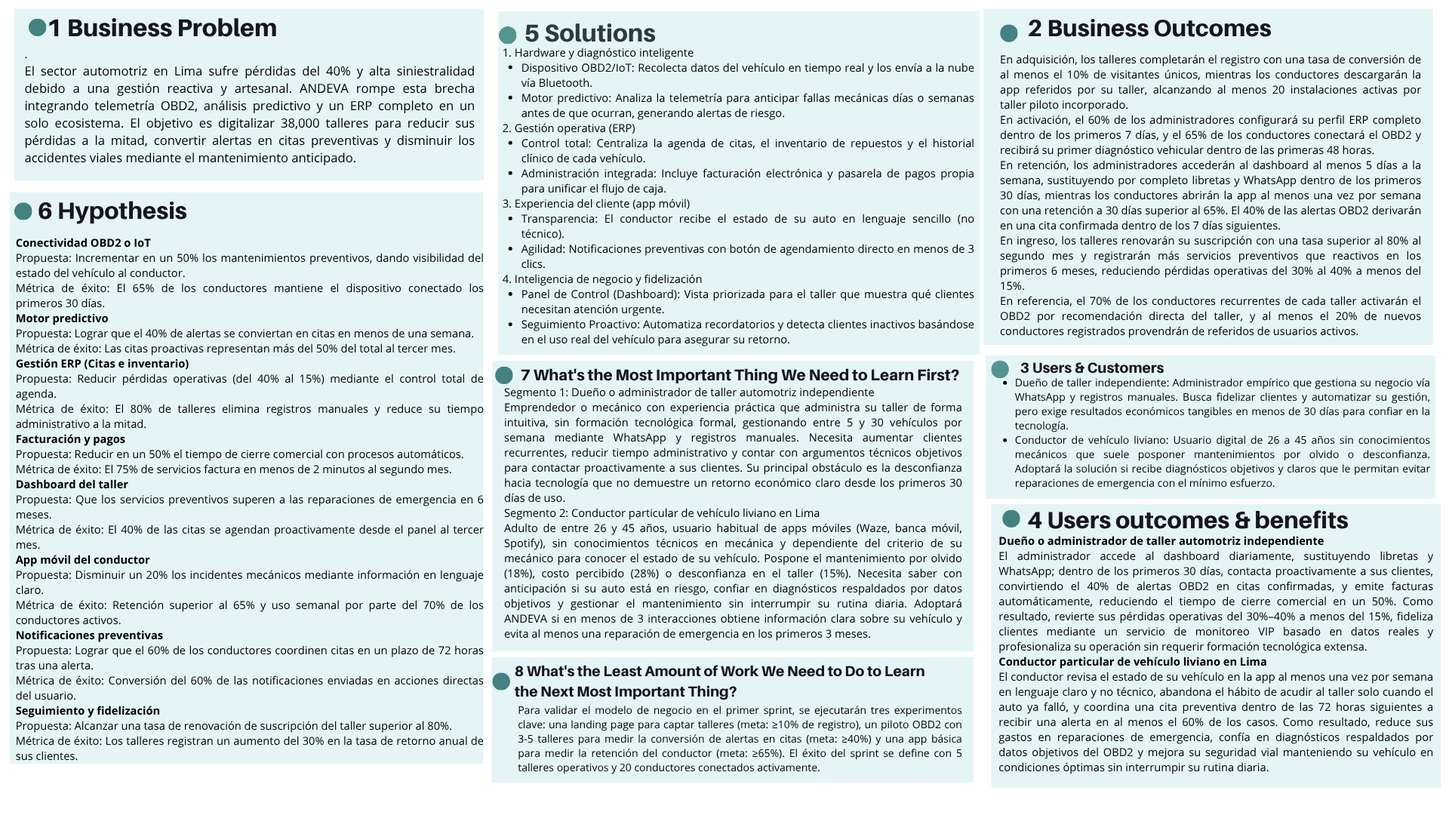
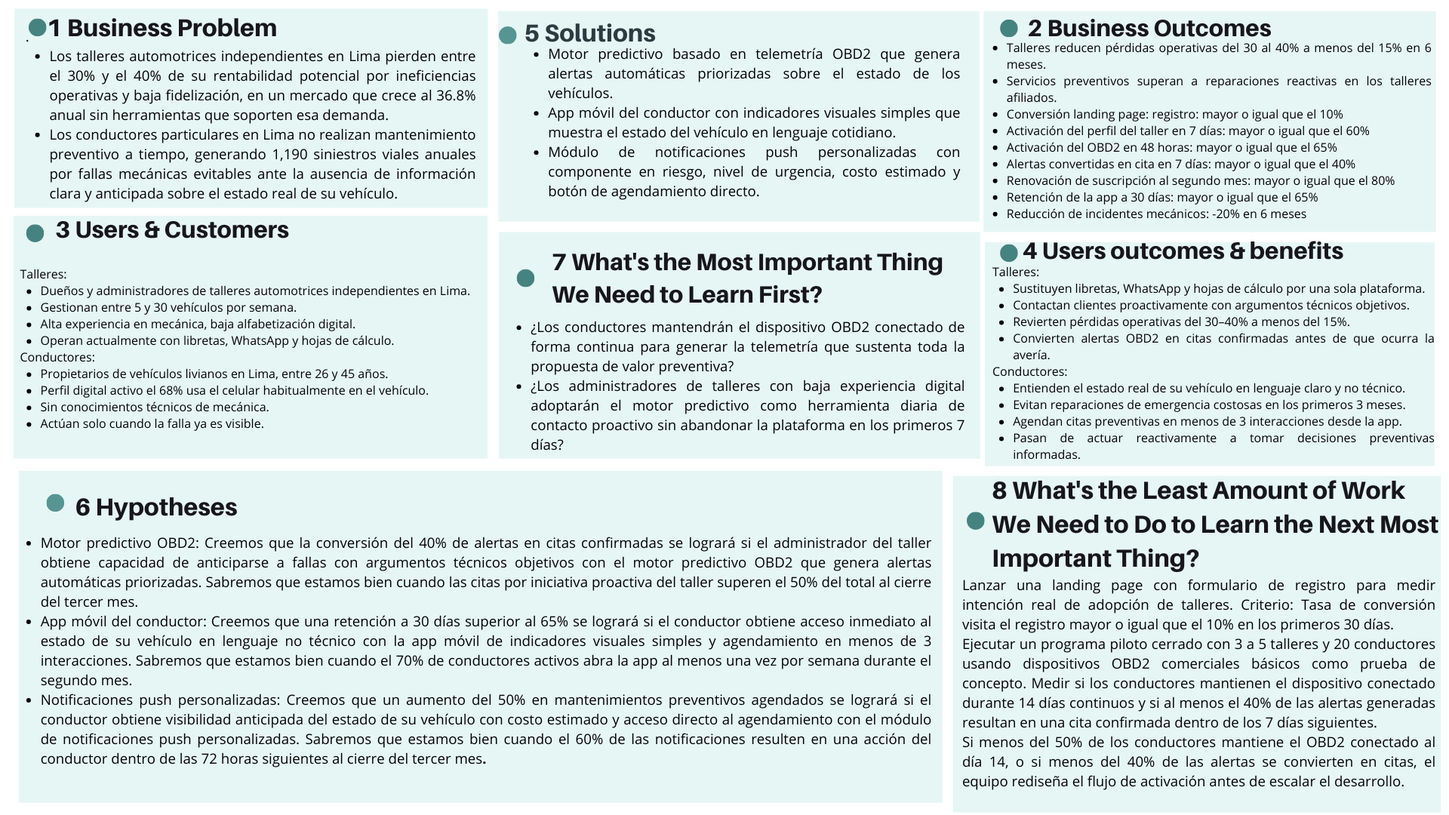
docs: reformat lean ux process.

diff --git a/report/16-solution-profile.md b/report/16-solution-profile.md
@@ -72,126 +72,91 @@
 
 #### 1.2.2.1.&emsp;&emsp;*Lean UX Problem Statements* {#cap-1-2-2-1}
 
-&emsp;&emsp;&emsp;&emsp;El estado actual del sector de mantenimiento automotriz en el Perú se ha centrado principalmente en un modelo de atención reactiva, donde los talleres independientes, más de 38,000 solo en Lima Metropolitana, dependen de procesos manuales e informales como libretas físicas, hojas de cálculo sin estructura y grupos de WhatsApp para gestionar su operación diaria, comunicarse con sus clientes y registrar el historial de los vehículos que atienden. Del mismo modo, los conductores particulares carecen de cualquier mecanismo que les informe de manera anticipada y comprensible sobre el estado técnico real de su vehículo, por lo que solo acuden al taller cuando la falla ya es visible o el vehículo se ha detenido por completo.
+&emsp;&emsp;&emsp;&emsp;**Problem Statement 1: Talleres Automotrices**
 
-&emsp;&emsp;&emsp;&emsp;Lo que los productos y servicios existentes en el mercado peruano no logran abordar es la desconexión crítica entre el estado técnico real del vehículo, la comunicación proactiva con el conductor y la gestión administrativa del taller en un solo ecosistema integrado. Esta brecha provoca que los talleres independientes pierdan entre el 30% y el 40% de su rentabilidad potencial por ineficiencias operativas, baja fidelización y dependencia exclusiva de clientes reactivos. Por el lado del conductor, la ausencia de información anticipada genera olvido en el 18% de los casos y desconfianza en el 15%, lo que se traduce en 1,190 siniestros viales anuales causados por fallas mecánicas que pudieron haberse prevenido con un mantenimiento oportuno, según el Boletín de Siniestralidad Vial 2024 del Observatorio Nacional de Seguridad Vial. Esta problemática se agrava en un contexto donde el parque automotor de Lima crece a un ritmo del 36.8% anual, incrementando la demanda de mantenimiento sin que exista una oferta tecnológica que lo soporte de forma eficiente.
+&emsp;&emsp;&emsp;&emsp;El sector de mantenimiento automotriz en Lima tiene como objetivo que los talleres independientes puedan gestionar su operación diaria de forma eficiente, mantener una comunicación fluida con sus clientes y fidelizarlos a través de un servicio confiable y oportuno.
 
-&emsp;&emsp;&emsp;&emsp;Nuestra plataforma, ANDEVA, abordará esta brecha mediante un ecosistema tecnológico que integra hardware de diagnóstico vehicular OBD2 para la recolección de telemetría en tiempo real, un motor de análisis predictivo que emite alertas automáticas antes de que una falla menor escale a avería grave, y un sistema ERP completo que centraliza y automatiza la gestión administrativa del taller: citas, inventario, historial de vehículos, empleados, facturación electrónica y pasarela de pagos. De este modo, el mantenimiento deja de ser una respuesta de emergencia y se convierte en una acción preventiva basada en datos reales, profesionalizando al taller y empoderando al conductor con información transparente y oportuna.
+&emsp;&emsp;&emsp;&emsp;Sin embargo, los talleres independientes en Lima están perdiendo entre el 30% y el 40% de su rentabilidad potencial y presentan niveles bajos de fidelización de clientes, situación que se agrava en un contexto donde el parque automotor de Lima crece al 36.8% anual sin que la demanda de mantenimiento pueda ser atendida de forma eficiente.
 
-&emsp;&emsp;&emsp;&emsp;Nuestro enfoque inicial se centrará en dos segmentos: dueños y administradores de talleres automotrices independientes en Lima que buscan rentabilizar su operación, reducir su carga administrativa y fidelizar clientes mediante tecnología accesible; y conductores particulares de entre 26 y 45 años con perfil digital activo, propietarios de vehículos livianos en Lima Metropolitana, que representan el 70% del segmento objetivo y ya utilizan aplicaciones móviles de forma habitual en su vida diaria.
+&emsp;&emsp;&emsp;&emsp;¿Cómo podríamos mejorar la capacidad operativa y de fidelización de los talleres automotrices independientes en Lima, de modo que puedan incrementar su rentabilidad y atender de manera oportuna la creciente demanda del mercado?
 
-Sabremos que hemos tenido éxito cuando observemos los siguientes cambios medibles en el comportamiento de nuestra audiencia objetivo:
+&emsp;&emsp;&emsp;&emsp;**Problem Statement 2: Conductores Particulares**
 
-- **Reducción de pérdidas operativas**: Los talleres afiliados a ANDEVA disminuyen sus pérdidas operativas del 30% al 40% actual a menos del 15% en los primeros 6 meses de uso de la plataforma, como resultado de la automatización administrativa y el incremento de ingresos recurrentes por mantenimientos preventivos programados.
-- **Acción preventiva sostenida**: Un aumento del 50% en las citas de mantenimiento preventivo agendadas a través de la plataforma en los primeros 6 meses, en comparación con la línea base de cada taller previo a la adopción de ANDEVA.
-- **Conversión de alertas en citas**: Al menos el 40% de las notificaciones de salud vehicular generadas automáticamente por el sistema OBD2 resultan en una cita de mantenimiento confirmada y realizada en el taller dentro de los 7 días siguientes al envío de la alerta.
-- **Impacto en seguridad vial**: Una disminución del 20% en los incidentes por fallas mecánicas reportados entre los conductores activos vinculados a la red de talleres de ANDEVA, medida al cabo de 6 meses de operación continua de la plataforma.
+&emsp;&emsp;&emsp;&emsp;El mantenimiento vehicular en Lima tiene como objetivo que los conductores particulares puedan mantener sus vehículos en condiciones seguras y operativas, tomando decisiones informadas y oportunas respecto a su mantenimiento antes de que surjan averías graves.
+
+&emsp;&emsp;&emsp;&emsp;Sin embargo, los conductores particulares en Lima no están realizando su mantenimiento de manera preventiva, lo que se refleja en 1,190 siniestros viales anuales causados por fallas mecánicas que pudieron haberse evitado con una intervención oportuna, según el Observatorio Nacional de Seguridad Vial (2024).
+
+&emsp;&emsp;&emsp;&emsp;¿Cómo podríamos mejorar el acceso de los conductores particulares en Lima a información clara y oportuna sobre el estado de su vehículo, de modo que puedan tomar decisiones de mantenimiento preventivo antes de que una falla menor escale a una avería grave?
 
 #### 1.2.2.2.&emsp;&emsp;*Lean UX Assumptions* {#cap-1-2-2-2}
 
-**Business Assumptions**
+**1. BUSINESS ASSUMPTIONS**
 
-- Los dueños de talleres independientes visitan la landing page de ANDEVA y completan el formulario de registro tras leer la propuesta de valor, con una tasa de conversión de visita a registro de al menos el 10%.
-- Los conductores particulares descargan la app móvil de ANDEVA después de ser referidos por su taller de confianza, alcanzando al menos 20 instalaciones activas por cada taller piloto incorporado a la red.
+&emsp;&emsp;&emsp;&emsp;**¿Quiénes son mis clientes iniciales?** Nuestros clientes iniciales son dueños y administradores de talleres automotrices independientes en Lima Metropolitana que gestionan entre 5 y 30 vehículos por semana, operan sin herramientas tecnológicas especializadas y están dispuestos a adoptar tecnología si esta demuestra retorno económico concreto en los primeros 3 meses.
 
-**¿Empiezan a usar el producto de forma significativa?**
+&emsp;&emsp;&emsp;&emsp;**¿Cómo adquiriremos a la mayoría de nuestros clientes?** Adquiriremos a la mayoría de nuestros clientes mediante demostraciones presenciales del sistema en talleres piloto de Lima y un período de prueba gratuito de 30 días. Los conductores serán adquiridos indirectamente a través del taller: cada taller piloto incorporado referirá la app a sus clientes habituales, alcanzando al menos 20 instalaciones activas por taller.
 
-- Los administradores de talleres configuran completamente su perfil en la plataforma ERP (inventario inicial, datos de clientes y agenda) dentro de los primeros 7 días desde el registro, con una tasa de activación completa superior al 60%.
-- Los conductores conectan el dispositivo OBD2 a su vehículo y reciben su primer diagnóstico de salud vehicular dentro de las primeras 48 horas desde la descarga de la app, con una tasa de activación del dispositivo superior al 65%.
+&emsp;&emsp;&emsp;&emsp;**¿Cómo haremos dinero?** Generaremos ingresos mediante un modelo SaaS con suscripción mensual escalonada según el número de vehículos monitoreados y el nivel de funcionalidades ERP habilitadas, complementado por la venta o arriendo del hardware OBD2 a los talleres afiliados.
 
-**¿Siguen usando el producto de forma regular?**
+&emsp;&emsp;&emsp;&emsp;**¿Frente a quién competimos?** Existen competidores regionales con propuestas de digitalización parcial para talleres, creemos que nuestra ventaja radica en la integración única de diagnóstico predictivo vía OBD2 con ERP completo. Sin embargo, reconocemos que nuestro mayor obstáculo será la costumbre arraigada de los talleres de operar con métodos manuales familiares y sin costo directo, generando resistencia al cambio tecnológico.
 
-- Los administradores de talleres acceden al panel de control de ANDEVA al menos 5 días a la semana para revisar el estado de los vehículos monitoreados, gestionar citas y procesar pagos, sustituyendo por completo el uso de libretas y WhatsApp como herramientas de gestión.
-- Los conductores abren la app de ANDEVA al menos una vez por semana para revisar el estado de su vehículo, con una tasa de retención a 30 días superior al 65%.
-- El 40% de las alertas de salud vehicular generadas automáticamente por el sistema OBD2 se convierte en una cita de mantenimiento confirmada y realizada dentro de los 7 días siguientes al envío de la notificación.
+&emsp;&emsp;&emsp;&emsp;**¿Cuál es nuestro mayor riesgo de producto?** Nuestro mayor riesgo es que los administradores de talleres con baja experiencia digital abandonen la plataforma en los primeros 7 días al percibir el onboarding como complejo, y que los conductores desconecten el dispositivo OBD2 después de los primeros días por considerarlo innecesario, bloqueando la generación de telemetría que sustenta toda la propuesta de valor preventiva.
 
-**¿Están pagando y generando valor económico sostenido?**
+**BUSINESS OUTCOMES**
 
-- Los talleres afiliados renuevan su suscripción mensual a ANDEVA con una tasa superior al 80% al término del segundo mes de uso, como señal de que el valor percibido supera el costo de la suscripción.
-- Los talleres afiliados registran un aumento medible en el número de servicios de mantenimiento preventivo realizados por mes, superando en cantidad a los servicios reactivos de emergencia dentro de los primeros 6 meses de uso, lo que se traduce en una reducción de sus pérdidas operativas del 30% al 40% actual a menos del 15%.
-- Los conductores activos evitan al menos una reparación de emergencia durante los primeros 3 meses de uso, percibiendo un ahorro económico concreto y atribuible directamente a las alertas preventivas de ANDEVA.
+&emsp;&emsp;&emsp;&emsp;**¿Cómo sabremos que resolvimos el problema del negocio?** Sabremos que resolvimos el problema del negocio cuando los talleres afiliados reduzcan sus pérdidas operativas del 30 al 40% actual a menos del 15% dentro de los primeros 6 meses, y cuando el número de servicios de mantenimiento preventivo realizados mensualmente supere al número de reparaciones reactivas de emergencia en esos mismos talleres.
 
-**¿Recomiendan el producto a otros?**
+&emsp;&emsp;&emsp;&emsp;**¿Qué vamos a medir?**
 
-- Los talleres afiliados recomiendan activamente a sus clientes la descarga de la app del conductor, logrando que al menos el 70% de sus clientes recurrentes instalen y activen el dispositivo OBD2 dentro de los primeros 2 meses de operación del taller en la plataforma.
-- Los conductores satisfechos refieren ANDEVA a otros propietarios de vehículos de su entorno, con al menos el 20% de nuevos conductores registrados provenientes de referidos directos de usuarios activos.
-- El índice de satisfacción (NPS) de los conductores vinculados a talleres que usan ANDEVA supera en al menos 15 puntos al promedio del sector automotriz tradicional al cabo de 3 meses de uso activo.
+- Tasa de conversión de visita a la landing page hacia registro del taller: meta mayor o igual al 10%.
+- Tasa de activación completa del perfil del taller en los primeros 7 días post-registro: meta mayor o igual al 60%.
+- Tasa de activación del dispositivo OBD2 por conductor en las primeras 48 horas: meta mayor o igual al 65%.
+- Porcentaje de alertas OBD2 que se convierten en cita confirmada dentro de 7 días: meta mayor o igual al 40%.
+- Tasa de renovación de suscripción mensual al cierre del segundo mes: meta mayor o igual al 80%.
+- Retención de la app del conductor a 30 días: meta mayor o igual al 65%.
+- Reducción de incidentes por fallas mecánicas entre conductores activos: meta 20% en 6 meses.
 
-**Business Outcomes Assumptions**
+**USER ASSUMPTIONS**
 
-&emsp;&emsp;&emsp;&emsp;Creo que mis clientes necesitan dejar de gestionar su taller con libretas, hojas de cálculo y grupos de WhatsApp, y adoptar una plataforma centralizada que les permita anticiparse a las fallas de sus clientes, automatizar su facturación y controlar su inventario en tiempo real, porque la gestión manual es la causa directa de las pérdidas operativas del 30% al 40% que enfrentan actualmente.
+&emsp;&emsp;&emsp;&emsp;**¿Quién es el usuario?** Nuestros usuarios son, por un lado, emprendedores y mecánicos que administran talleres automotrices independientes con alta experiencia práctica en su oficio, pero baja alfabetización digital formal, que actualmente gestionan su operación con libretas físicas, grupos de WhatsApp y hojas de cálculo. Por otro lado, conductores particulares propietarios de vehículos livianos en Lima, con perfil digital activo, sin conocimientos técnicos de mecánica, que toman decisiones de mantenimiento únicamente cuando la falla ya es visible.
 
-&emsp;&emsp;&emsp;&emsp;Estas necesidades se pueden resolver con la implementación de ANDEVA, una plataforma web que integra hardware de diagnóstico vehicular OBD2 para la recolección de telemetría en tiempo real con un sistema ERP completo que centraliza citas, inventario, historial de vehículos, empleados, facturación electrónica y pasarela de pagos en un solo ecosistema accesible desde cualquier dispositivo.
+&emsp;&emsp;&emsp;&emsp;**¿Dónde encaja nuestro producto en su trabajo o vida diaria?** Para el administrador del taller, el producto encaja como la herramienta central de gestión durante las horas de operación del negocio: revisar agenda y alertas al inicio del día, registrar órdenes durante el servicio y facturar al cierre. Para el conductor, encaja como una app de referencia pasiva integrada a su rutina digital, que le notifica proactivamente cuando su vehículo requiere atención sin que tenga que buscar esa información activamente.
 
-&emsp;&emsp;&emsp;&emsp;Nuestros clientes iniciales son los dueños y administradores de talleres automotrices independientes en Lima Metropolitana que gestionan entre 5 y 30 vehículos por semana, buscan profesionalizar su operación y están dispuestos a adoptar tecnología si esta demuestra un retorno económico claro y medible en los primeros 3 meses de uso.
+&emsp;&emsp;&emsp;&emsp;**¿Qué problemas tiene nuestro usuario que debemos resolver?** El administrador enfrenta un caos administrativo diario; citas sin registrar, inventario descontrolado, historial de vehículos disperso; que le consume tiempo, le genera errores y le impide anticiparse a las necesidades de sus clientes, resultando en pérdidas operativas del 30 al 40%. El conductor carece de información anticipada sobre el estado real de su vehículo: el 18% olvida hacer mantenimiento, el 15% desconfía del diagnóstico del taller y el 32% lo posterga por percibirlo como un gasto elevado e incierto.
 
-&emsp;&emsp;&emsp;&emsp;El valor principal que prioriza mi cliente (administrador del taller) es revertir sus pérdidas operativas mediante ingresos recurrentes por mantenimientos preventivos programados y reducir drásticamente el tiempo dedicado a tareas administrativas manuales. Por el lado del conductor, el mayor valor es recibir alertas anticipadas sobre el estado real de su vehículo en lenguaje claro, evitando reparaciones de emergencia costosas e imprevistas.
+**USER OUTCOMES**
 
-&emsp;&emsp;&emsp;&emsp;El cliente también puede obtener beneficios adicionales como: por el lado del taller, la capacidad de contactar proactivamente a sus clientes con alertas fundamentadas en datos reales del vehículo, lo que construye una relación de confianza y aumenta el Lifetime Value de cada conductor. Por el lado del conductor, la tranquilidad de saber que su vehículo está siendo monitoreado en tiempo real, reduciendo el riesgo de siniestros viales por fallas mecánicas prevenibles, que actualmente representan 1,190 casos anuales según la ONSV (2024).
+&emsp;&emsp;&emsp;&emsp;**¿Qué beneficio obtendrán al usar el producto?** El administrador del taller obtendrá control total de su agenda, inventario y facturación desde una sola plataforma, recuperando el tiempo perdido en gestión manual y ganando la capacidad de contactar a sus clientes proactivamente con argumentos técnicos objetivos basados en datos reales del vehículo. El conductor obtendrá acceso al estado técnico real de su vehículo en lenguaje claro y no técnico, evitando reparaciones de emergencia costosas; con una expectativa de ahorro concreto y atribuible al uso de la app dentro de los primeros 3 meses.
 
-&emsp;&emsp;&emsp;&emsp;Obtendremos clientes ofreciendo demostraciones presenciales del sistema en talleres piloto de Lima, un período de prueba gratuito de 30 días para que el administrador verifique empíricamente cómo se reducen sus tiempos administrativos y cómo el módulo OBD2 genera alertas reales sobre los vehículos de sus clientes, con métricas de uso visibles desde el primer día.
+&emsp;&emsp;&emsp;&emsp;**¿Por qué los usuarios buscarán nuestro servicio?** El administrador lo buscará porque es la única solución en el mercado peruano que integra diagnóstico vehicular predictivo con gestión administrativa completa del taller en un solo ecosistema. El conductor lo buscará porque le da la tranquilidad de saber que su vehículo está siendo monitoreado en tiempo real y recibirá una alerta antes de que una falla menor se convierta en una avería que paralice su vehículo y su economía.
 
-&emsp;&emsp;&emsp;&emsp;Generamos ingresos mediante un modelo de negocio SaaS con suscripción mensual escalonada según el número de vehículos monitoreados y el nivel de funcionalidades ERP habilitadas, complementado por la venta o arriendo del hardware OBD2 a los talleres afiliados que deseen ofrecer el servicio de monitoreo preventivo a sus clientes.
+**FEATURES**
 
-&emsp;&emsp;&emsp;&emsp;Nuestra competencia principal serían los sistemas de gestión de talleres genéricos que no incluyen diagnóstico predictivo, las soluciones de diagnóstico OBD2 aisladas que no integran gestión administrativa y la arraigada costumbre de operar con papel, WhatsApp y Excel, que, aunque ineficiente, resulta familiar y sin costo directo para el administrador del taller.
+&emsp;&emsp;&emsp;&emsp;**¿Qué características son importantes para resolver estas necesidades?**
 
-&emsp;&emsp;&emsp;&emsp;Los venceremos debido a que somos la única solución en el mercado peruano que integra en un solo ecosistema el diagnóstico vehicular predictivo basado en telemetría OBD2 real con un ERP completo de gestión del taller, eliminando la necesidad de usar múltiples herramientas desconectadas y transformando la relación conductor-taller de transaccional y reactiva a continua y preventiva.
-
-&emsp;&emsp;&emsp;&emsp;Nuestros mayores riesgos son la resistencia al cambio tecnológico por parte de administradores de talleres con poca experiencia digital, la reticencia del conductor a instalar y mantener conectado el dispositivo OBD2 de forma continua y la posibilidad de que la conectividad a internet en algunos talleres de Lima sea insuficiente para garantizar la transmisión de telemetría en tiempo real.
-
-&emsp;&emsp;&emsp;&emsp;Esto lo resolveremos implementando una experiencia de incorporación (onboarding) guiada de no más de 15 minutos para el administrador del taller, con soporte presencial en Lima durante los primeros 30 días. Para el conductor, se diseñará un flujo de instalación del OBD2 de máximo 3 pasos desde la app, con un mensaje de confirmación inmediato que demuestre que el dispositivo está funcionando correctamente.
-
-&emsp;&emsp;&emsp;&emsp;Otras suposiciones que tenemos son que los administradores de talleres independientes en Lima cuentan con un smartphone y conexión a internet estable en su local, y que al menos el 68% de sus clientes conductores ya utiliza su celular de forma habitual mientras conduce, lo que garantiza una fricción técnica mínima para la adopción de la app. Si se comprueba que la infraestructura tecnológica de los talleres objetivo es insuficiente, se deberá evaluar un modo de operación con sincronización diferida para entornos de baja conectividad.
+- Si implementamos un motor predictivo basado en telemetría OBD2 que genere alertas automáticas priorizadas sobre el estado de los vehículos, entonces los administradores podrán anticiparse a las fallas de sus clientes y contactarlos proactivamente antes de que ocurra una avería, aumentando la confianza y la fidelización.
+- Si implementamos una app móvil del conductor que muestre el estado de su vehículo mediante indicadores visuales simples y en lenguaje cotidiano, entonces los conductores podrán comprender el estado técnico real de su vehículo sin necesidad de ir al taller, reduciendo el olvido y la postergación del mantenimiento.
+- Si implementamos un módulo de notificaciones push personalizadas que incluya el nombre del componente en riesgo, el nivel de urgencia y el costo estimado de atención con un botón de agendamiento directo, entonces los conductores podrán tomar una decisión informada e inmediata sin fricciones, aumentando la tasa de conversión de alerta a cita confirmada.
 
 #### 1.2.2.3.&emsp;&emsp;*Lean UX Hypothesis Statements* {#cap-1-2-2-3}
 
-**Hipótesis 1: Módulo OBD2 o IoT**
+&emsp;&emsp;&emsp;&emsp;**Hipótesis 1: Motor Predictivo OBD2**
 
-&emsp;&emsp;&emsp;&emsp;Creemos que lograremos un aumento del 50% en los mantenimientos preventivos agendados en la plataforma durante los primeros 6 meses, si el conductor particular de entre 26 y 45 años, propietario de un vehículo liviano en Lima, obtiene visibilidad continua y automática del estado técnico real de su vehículo sin necesidad de llevarlo al taller para obtener esa información, con el dispositivo OBD2 Bluetooth instalado en el puerto del vehículo que recolecta telemetría en tiempo real y la transmite de forma segura a la API de ANDEVA a través de la app móvil del conductor.
+&emsp;&emsp;&emsp;&emsp;Creemos que la conversión del 40% de alertas generadas en citas confirmadas dentro de los 7 días siguientes se logrará si el administrador del taller obtiene la capacidad de anticiparse a las fallas de sus clientes con argumentos técnicos objetivos con el motor predictivo basado en telemetría OBD2 que genera alertas automáticas priorizadas.
 
-**Criterio de éxito**: Sabremos que tenemos razón cuando el 65% de los conductores registrados mantenga el dispositivo OBD2 conectado de forma continua durante los primeros 30 días, medido a través de los registros de actividad de transmisión de datos en la plataforma.
+&emsp;&emsp;&emsp;&emsp;Sabremos que estamos bien cuando veamos que el porcentaje de citas originadas por iniciativa proactiva del taller supera el 50% del total de citas registradas en la plataforma al cierre del tercer mes de operación.
 
-**Hipótesis 2: Motor predictivo y sistema de alertas automáticas**
+&emsp;&emsp;&emsp;&emsp;**Hipótesis 2: App Móvil del Conductor**
 
-&emsp;&emsp;&emsp;&emsp;Creemos que lograremos que al menos el 40% de las alertas de salud vehicular generadas por el sistema resulten en una cita de mantenimiento confirmada y realizada en el taller dentro de los 7 días siguientes, si el dueño o administrador del taller automotriz independiente en Lima obtiene la capacidad de anticiparse a las fallas de los vehículos de sus clientes días o semanas antes de que ocurran, con un argumento técnico objetivo que le permita contactarlos proactivamente con credibilidad, con el motor predictivo de ANDEVA que analiza la telemetría OBD2 recibida, identifica patrones de riesgo mecánico y genera alertas automáticas priorizadas en el panel del taller con el componente en riesgo y el nivel de urgencia estimado.
+&emsp;&emsp;&emsp;&emsp;Creemos que una tasa de retención de la app a 30 días superior al 65% se logrará si el conductor particular obtiene acceso inmediato al estado técnico real de su vehículo en lenguaje claro y no técnico con la posibilidad de agendar una cita en menos de 3 interacciones con la app móvil que muestra el estado del vehículo mediante indicadores visuales simples y lenguaje cotidiano.
 
-**Criterio de éxito**: Sabremos que tenemos razón cuando el porcentaje de citas originadas por iniciativa del taller supere el 50% del total de citas registradas en la plataforma al cierre del tercer mes de operación.
+&emsp;&emsp;&emsp;&emsp;Sabremos que estamos bien cuando veamos que el 70% de los conductores activos abre la app al menos una vez por semana y el 40% de las aperturas resulta en una acción concreta revisión del estado del vehículo o agendamiento de cita durante el segundo mes de uso.
 
-**Hipótesis 3: Módulo ERP de gestión de citas e inventario**
+&emsp;&emsp;&emsp;&emsp;**Hipótesis 3: Módulo de Notificaciones Push Personalizadas**
 
-&emsp;&emsp;&emsp;&emsp;Creemos que lograremos una reducción de las pérdidas operativas de los talleres afiliados del 30% al 40% actual a menos del 15% en los primeros 6 meses, si el dueño o administrador del taller automotriz independiente obtiene el control total de su agenda de citas y su inventario de repuestos desde una sola plataforma, eliminando los errores, duplicidades y tiempos muertos generados por la gestión manual con libretas y hojas de cálculo, con el módulo ERP de ANDEVA que centraliza la agenda digital de citas, el control de stock de repuestos en tiempo real y el historial completo de cada vehículo atendido, accesible desde cualquier dispositivo con conexión a internet.
+&emsp;&emsp;&emsp;&emsp;Creemos que un aumento del 50% en los mantenimientos preventivos agendados se logrará si el conductor particular obtiene visibilidad anticipada sobre el estado de su vehículo con el costo estimado de atención y acceso directo al agendamiento con el módulo de notificaciones push personalizadas que incluye el componente en riesgo, el nivel de urgencia y un botón de agendamiento directo.
 
-**Criterio de éxito**: Sabremos que tenemos razón cuando el 80% de los talleres suscritos elimine por completo el uso de registros manuales como herramienta principal de gestión dentro de los primeros 30 días, y cuando el tiempo dedicado a tareas administrativas semanales se reduzca en al menos un 50% según los registros de actividad de la plataforma.
-
-**Hipótesis 4: Módulo de facturación electrónica y pasarela de pagos**
-
-&emsp;&emsp;&emsp;&emsp;Creemos que lograremos una reducción del 50% en el tiempo dedicado al cierre comercial de cada servicio (facturación y cobranza) en los talleres afiliados dentro de los primeros 3 meses de uso, si el dueño o administrador del taller automotriz independiente obtiene la capacidad de emitir facturas electrónicas y procesar cobros de forma inmediata al cierre de cada servicio, sin depender de procesos manuales externos ni de herramientas desconectadas de la gestión del taller, con el módulo de facturación electrónica y pasarela de pagos integrada de ANDEVA, que genera automáticamente la factura al registrar el cierre del servicio en el sistema y permite al conductor pagar desde la app móvil o mediante un enlace de pago enviado por la plataforma.
-
-**Criterio de éxito**: Sabremos que tenemos razón cuando el 75% de los servicios registrados en la plataforma genere su factura de forma automática sin intervención manual del administrador, y cuando el tiempo promedio entre el cierre del servicio y la emisión de la factura sea inferior a 2 minutos, medido en los registros de actividad del sistema durante el segundo mes de uso.
-
-**Hipótesis 5: Panel de control del taller (Dashboard)**
-
-&emsp;&emsp;&emsp;&emsp;Creemos que lograremos que el número de servicios de mantenimiento preventivo realizados mensualmente supere al número de reparaciones de emergencia reactivas en los talleres afiliados dentro de los primeros 6 meses de uso, si el dueño o administrador del taller automotriz independiente obtiene una visión centralizada, priorizada y actualizada en tiempo real del estado técnico de todos los vehículos de sus clientes monitoreados, permitiéndole identificar de un vistazo quién necesita atención urgente y actuar antes de que el conductor lo contacte por una emergencia. Con el panel de control (dashboard) de ANDEVA que agrega la telemetría OBD2 de todos los vehículos vinculados al taller, muestra una lista priorizada de clientes en riesgo con el detalle del componente afectado y habilita el agendamiento de citas proactivas directamente desde la misma interfaz sin cambiar de herramienta.
-
-**Criterio de éxito**: Sabremos que tenemos razón cuando los administradores de talleres accedan al dashboard al menos 5 días a la semana durante el segundo mes de uso, medido en los registros de sesión de la plataforma, y cuando el porcentaje de citas proactivas iniciadas desde el panel supere el 40% del total de citas agendadas mensualmente.
-
-**Hipótesis 6: App móvil del conductor**
-
-&emsp;&emsp;&emsp;&emsp;Creemos que lograremos una disminución del 20% en los incidentes por fallas mecánicas entre los conductores activos vinculados a la plataforma durante los primeros 6 meses de operación, si el conductor particular de entre 26 y 45 años que actualmente pospone su mantenimiento por olvido (18%) o por desconfianza en el diagnóstico del taller (15%) obtiene acceso inmediato al estado técnico real de su vehículo en lenguaje claro y no técnico, con el historial completo de mantenimientos realizados y la posibilidad de coordinar una cita con su taller en menos de 3 interacciones desde su celular, con la app móvil de ANDEVA diseñada para conductores sin conocimientos técnicos, que muestra el estado del vehículo mediante indicadores visuales simples, presenta el historial de mantenimientos ordenado cronológicamente y permite agendar una cita con el taller vinculado directamente desde la pantalla de alerta.
-
-**Criterio de éxito**: Sabremos que tenemos razón cuando la tasa de retención de la app a 30 días sea superior al 65%, medida en los registros de sesión de la plataforma, y cuando el 70% de los conductores activos abra la app al menos una vez por semana durante el segundo mes de uso.
-
-**Hipótesis 7: Módulo de notificaciones preventivas**
-
-&emsp;&emsp;&emsp;&emsp;Creemos que lograremos que el 60% de los conductores que reciban una notificación preventiva coordinen una cita de mantenimiento con su taller dentro de las 72 horas siguientes al envío de la alerta, si el conductor particular de entre 26 y 45 años que no realiza mantenimiento preventivo por olvido o por percibir el costo como elevado e incierto obtiene una notificación personalizada que le explica en lenguaje cotidiano qué componente de su vehículo está en riesgo, cuánto tiempo tiene antes de que el problema escale y cuánto le costaría atenderlo ahora versus atenderlo cuando ya sea una avería grave, con el módulo de notificaciones preventivas de ANDEVA que genera alertas push personalizadas para cada conductor basadas en la telemetría real de su vehículo, incluyendo el nombre del componente afectado en términos no técnicos, el nivel de urgencia estimado y un botón de agendamiento directo con el taller vinculado.
-
-**Criterio de éxito**: Sabremos que tenemos razón cuando al menos el 60% de las notificaciones preventivas enviadas resulten en una acción del conductor (apertura de la app, contacto con el taller o agendamiento de cita) dentro de las 72 horas siguientes, medido en los registros de interacción de la plataforma al cierre del tercer mes de uso.
-
-**Hipótesis 8: Módulo de seguimiento de clientes y fidelización**
-
-&emsp;&emsp;&emsp;&emsp;Creemos que lograremos una tasa de renovación mensual de suscripción superior al 80% entre los talleres afiliados al término del segundo mes de uso, si el dueño o administrador del taller automotriz independiente obtiene un incremento medible en el porcentaje de conductores que retornan para un segundo o tercer mantenimiento dentro del mismo año, como resultado de una relación de seguimiento continuo basada en el uso real del vehículo y no en recordatorios genéricos por calendario, con el módulo de seguimiento de clientes de ANDEVA que registra automáticamente cada interacción conductor-taller, calcula la frecuencia de retorno histórica de cada cliente, identifica a los conductores inactivos con mayor riesgo de fuga y habilita el envío de recordatorios personalizados basados en la telemetría acumulada del vehículo.
-
-**Criterio de éxito**: Sabremos que tenemos razón cuando los talleres afiliados registren un incremento del 30% en la tasa de retorno anual de sus clientes en comparación con su línea base histórica previa al uso de la plataforma, medido al cierre del sexto mes de operación, y cuando el Lifetime Value promedio por conductor aumente de forma proporcional en el mismo período.
+&emsp;&emsp;&emsp;&emsp;Sabremos que estamos bien cuando veamos que al menos el 60% de las notificaciones preventivas enviadas resultan en una acción del conductor apertura de la app, contacto con el taller o agendamiento de cita dentro de las 72 horas siguientes, medido al cierre del tercer mes de uso.
 
 #### 1.2.2.4.&emsp;&emsp;*Lean UX Canvas* {#cap-1-2-2-4}
 
@@ -200,4 +165,5 @@ Sabremos que hemos tenido éxito cuando observemos los siguientes cambios medibl
 *Lean UX Canvas*
 
 ![](assets/lean-ux-canvas.png "Lean UX Canvas")
+
 
